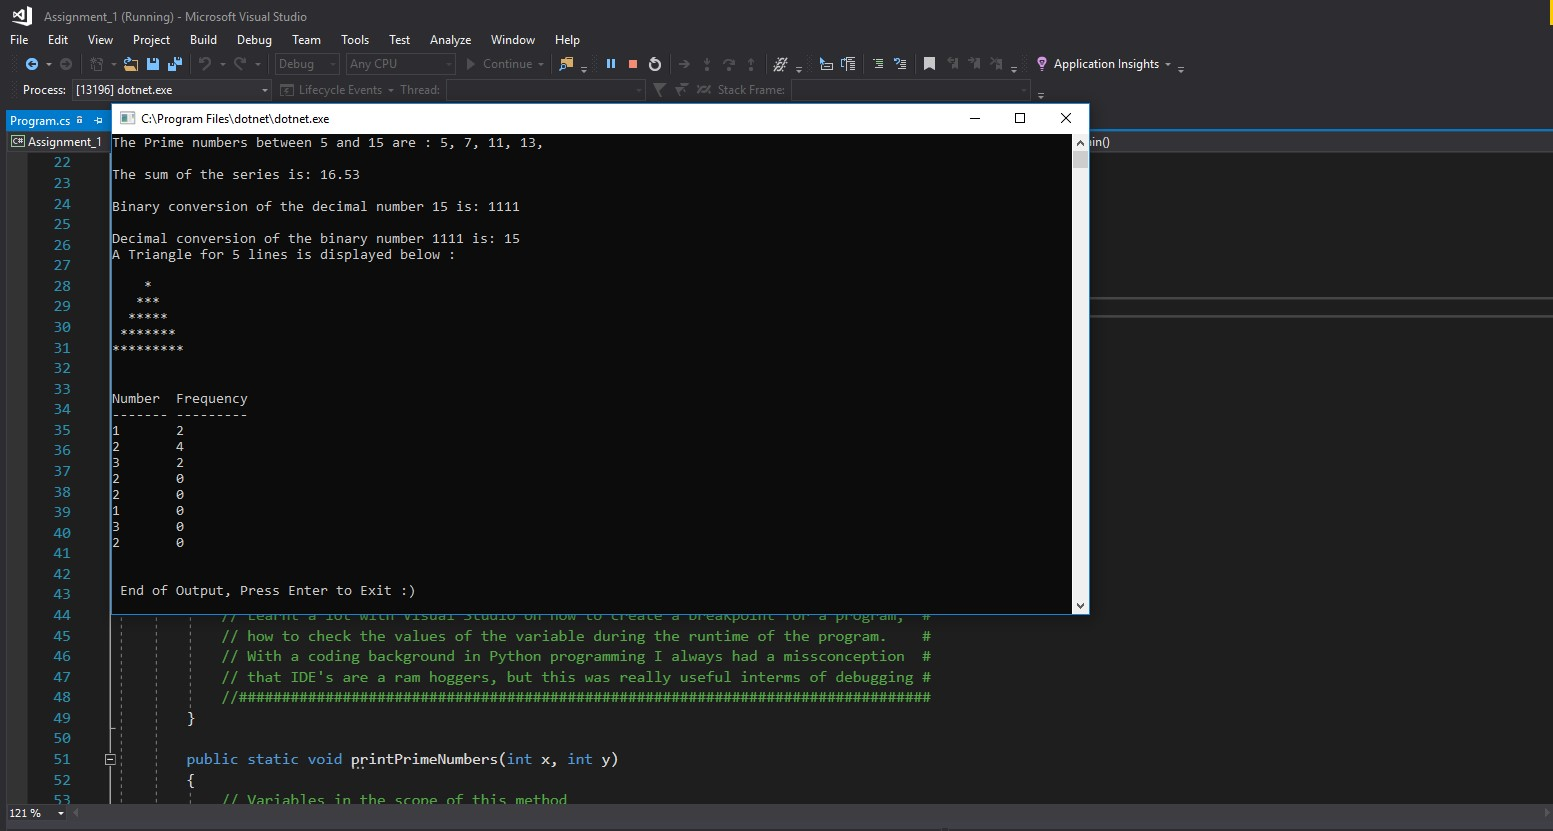
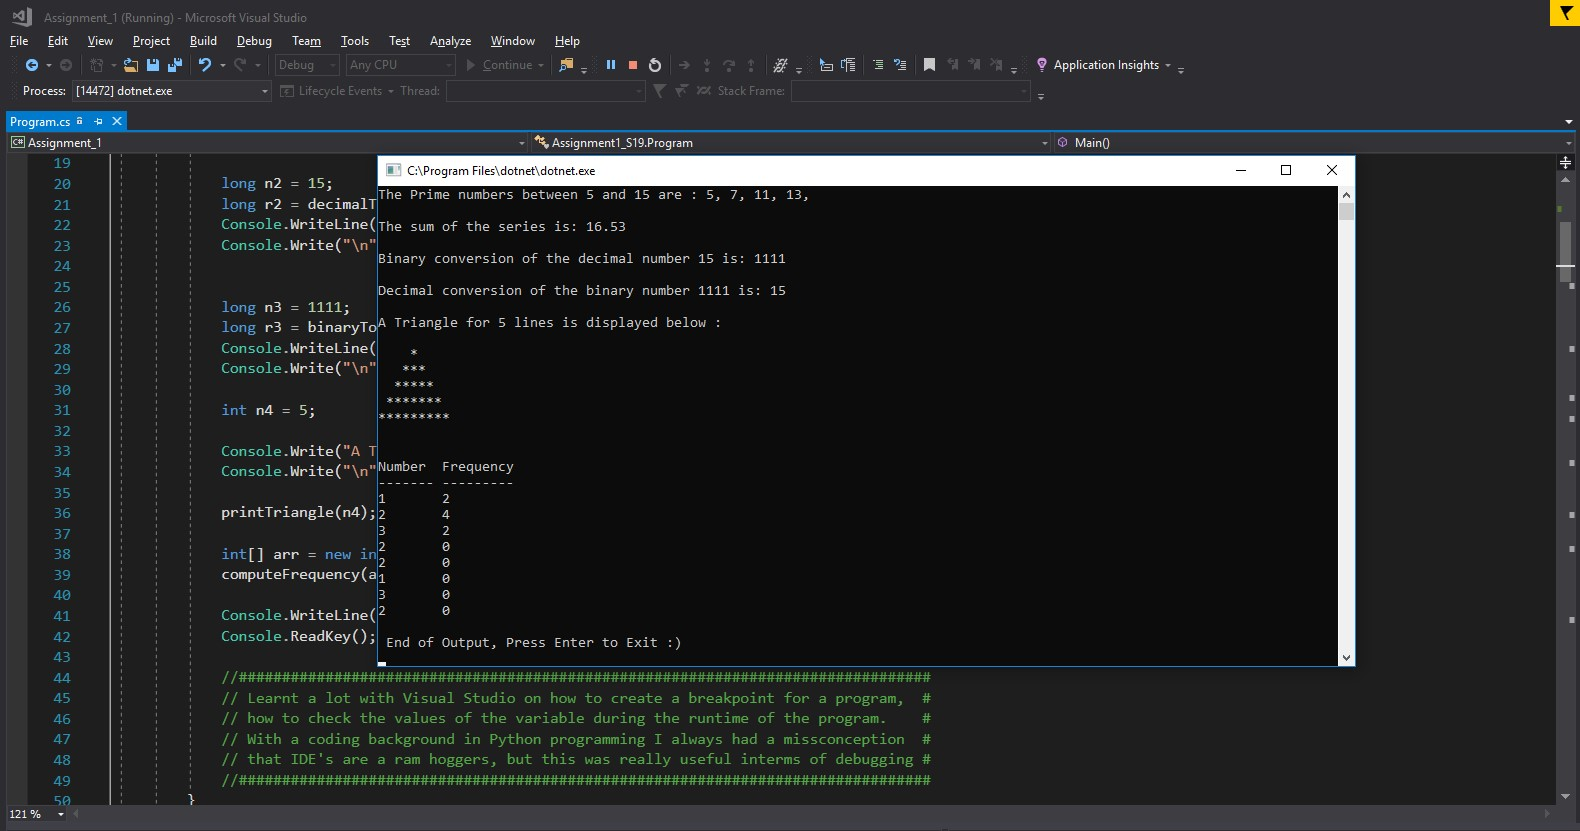
Add files via upload

Changed region(s): [[0.0, 0.0, 1.0, 0.9928], [0.9581, 0.0, 1.0, 0.0301]]

diff --git a/Assignment_1/Assignment_1/Program.cs b/Assignment_1/Assignment_1/Program.cs
@@ -26,17 +26,18 @@ namespace Assignment1_S19
             long n3 = 1111;
             long r3 = binaryToDecimal(n3);
             Console.WriteLine("Decimal conversion of the binary number " + n3 + " is: " + r3);
+            Console.Write("\n");
 
             int n4 = 5;
             
-            Console.Write("A Triangle for " + n4 + " lines is displayed below :" +"\n" + "\n");
-            
+            Console.Write("A Triangle for " + n4 + " lines is displayed below :" +"\n");
+            Console.Write("\n");
+
             printTriangle(n4);
             
             int[] arr = new int[] { 1, 2, 3, 2, 2, 1, 3, 2 };
             computeFrequency(arr);
 
-            Console.Write("\n");
             Console.WriteLine(" End of Output, Press Enter to Exit :)");
             Console.ReadKey();
 
